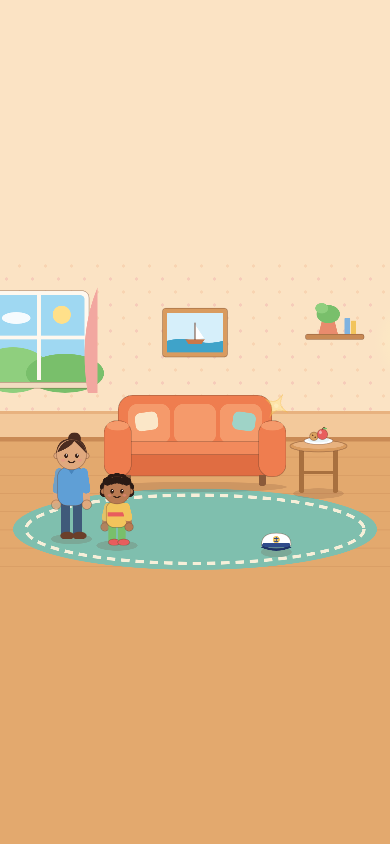
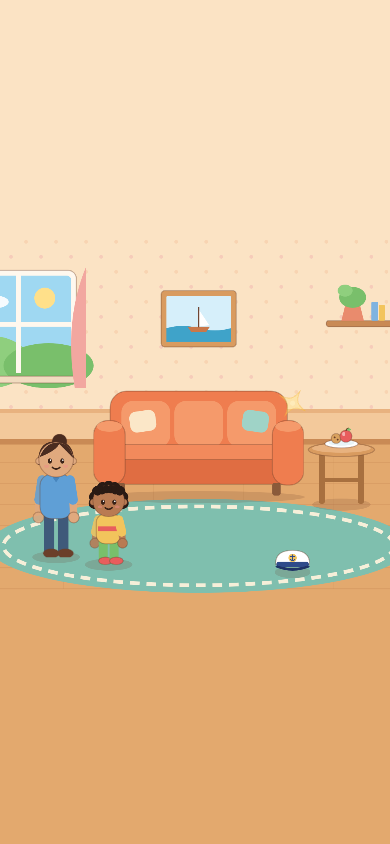
Frame the living room tighter than the sea on portrait screens
In the room only the sofa and its sparkle must always show (plus every
person and toy), so a portrait tablet zooms to about 0.77 instead of 0.64.
At sea the core keeps the fishing line and fish. The camera eases between
the two when the sofa becomes a boat. Updated after screenshots. Refs #17.

Assisted-by: Claude Code:claude-opus-5-5 (Karma42 agent ld-claude-2)

Changed region(s): [[0.0, 0.3081, 1.0, 0.7085], [0.4, 0.3389, 0.6154, 0.4313], [0.8, 0.3389, 1.0, 0.4005]]

diff --git a/src/render/layout.ts b/src/render/layout.ts
@@ -23,11 +23,17 @@ export interface Frame {
 export const STAGE: Rect = { x: 0, y: 0, width: 1600, height: 1000 };
 
 /**
- * Always visible: the sofa/boat with its mast and rod, the floor band where
- * people stand, and the horizon. The far wall decorations at the sides may be
- * cropped on narrow screens.
+ * Always visible at sea: the boat with its mast, the fishing line and leaping
+ * fish on the left, and most of the whale's swim. Wall or sky decorations at
+ * the sides may be cropped on narrow screens.
  */
-export const CORE: Rect = { x: 200, y: 0, width: 1200, height: 1000 };
+export const CORE: Rect = { x: 150, y: 0, width: 1150, height: 1000 };
+
+/**
+ * Always visible in the living room: the sofa and its invitation sparkle. Every
+ * person and toy is added on top of this, so nothing the child arranged is lost.
+ */
+export const CORE_ROOM: Rect = { x: 500, y: 0, width: 600, height: 1000 };
 
 /** Breathing room around the outermost toy, in world units. */
 export const ENTITY_MARGIN = 40;
@@ -59,10 +65,10 @@ function centre(visible: number, mustLo: number, mustHi: number, stageLo: number
 
 /**
  * Frame the world for a `width`×`height` screen. `content` is the world-space
- * bounds of all entities (or null). Everything in CORE ∪ content is visible.
+ * bounds of all entities (or null). Everything in core ∪ content is visible.
  */
-export function frameFor(width: number, height: number, content: Rect | null): Frame {
-  let must = CORE;
+export function frameFor(width: number, height: number, content: Rect | null, core: Rect = CORE): Frame {
+  let must = core;
   if (content && content.width > 0 && content.height > 0) {
     const padded = {
       x: content.x - ENTITY_MARGIN,
@@ -70,7 +76,7 @@ export function frameFor(width: number, height: number, content: Rect | null): F
       width: content.width + 2 * ENTITY_MARGIN,
       height: content.height + 2 * ENTITY_MARGIN,
     };
-    must = union(CORE, clampRect(padded, STAGE));
+    must = union(core, clampRect(padded, STAGE));
   }
   const scale = Math.min(width / must.width, height / must.height);
   const vw = width / scale;

diff --git a/src/render/layout.test.ts b/src/render/layout.test.ts
@@ -1,5 +1,5 @@
 import { describe, expect, it } from 'vitest';
-import { CORE, STAGE, frameFor, visibleRect, type Rect } from './layout';
+import { CORE, CORE_ROOM, STAGE, frameFor, visibleRect, type Rect } from './layout';
 
 const contains = (outer: Rect, inner: Rect) =>
   inner.x >= outer.x - 1e-6 &&
@@ -39,6 +39,16 @@ describe('frameFor', () => {
       expect(contains(v, hat)).toBe(true);
       expect(contains(v, CORE)).toBe(true);
     }
+  });
+
+  it('zooms further in the living room, where only the sofa and the family must show', () => {
+    const family: Rect = { x: 350, y: 560, width: 920, height: 380 };
+    const room = frameFor(768, 1024, family, CORE_ROOM);
+    const sea = frameFor(768, 1024, family, CORE);
+    expect(room.scale).toBeGreaterThan(sea.scale * 1.1);
+    const v = visibleRect(room, 768, 1024);
+    expect(contains(v, family)).toBe(true);
+    expect(contains(v, CORE_ROOM)).toBe(true);
   });
 
   it('stays on the stage when the screen is narrower than it', () => {

diff --git a/src/render/SceneRenderer.ts b/src/render/SceneRenderer.ts
@@ -1,4 +1,4 @@
-import { frameFor, union, visibleRect, ease, type Frame, type Rect } from './layout';
+import { CORE, CORE_ROOM, frameFor, union, visibleRect, ease, type Frame, type Rect } from './layout';
 import { Application, Container, Graphics, Rectangle, TilingSprite, type FederatedPointerEvent, type PointData } from 'pixi.js';
 import { characterParts, LOOKS, type Expression } from '../art/characters';
 import { BACKDROP_WIDTH, FLOOR_COLOR, livingRoom, sea, SEA_COLOR, seaWater, SKY_COLOR, WALL_COLOR } from '../art/backdrops';
@@ -138,7 +138,8 @@ export class SceneRenderer {
 
   private computeFrame(): Frame {
     const { width, height } = this.app.screen;
-    return frameFor(width, height, this.contentBounds());
+    const core = this.world?.scene === 'sea' ? CORE : CORE_ROOM;
+    return frameFor(width, height, this.contentBounds(), core);
   }
 
   /** World bounds of everything standing in the scene (held and worn items ride inside their holder). */
